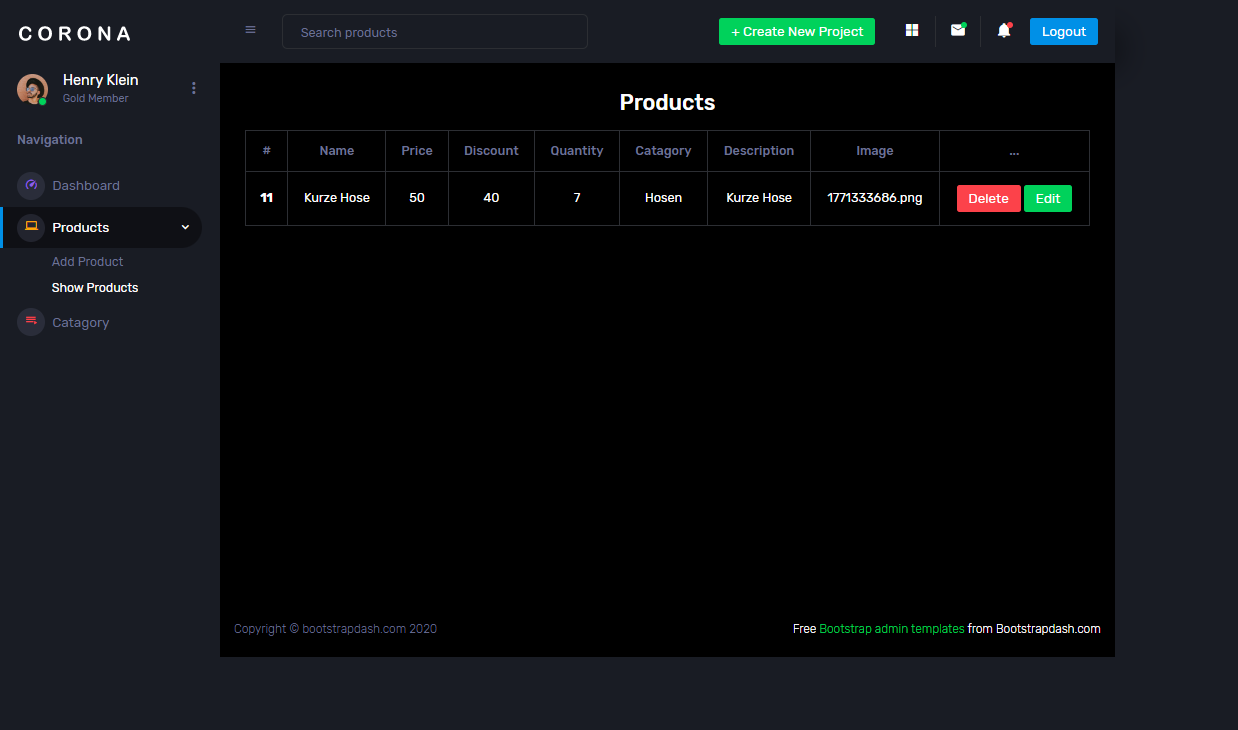
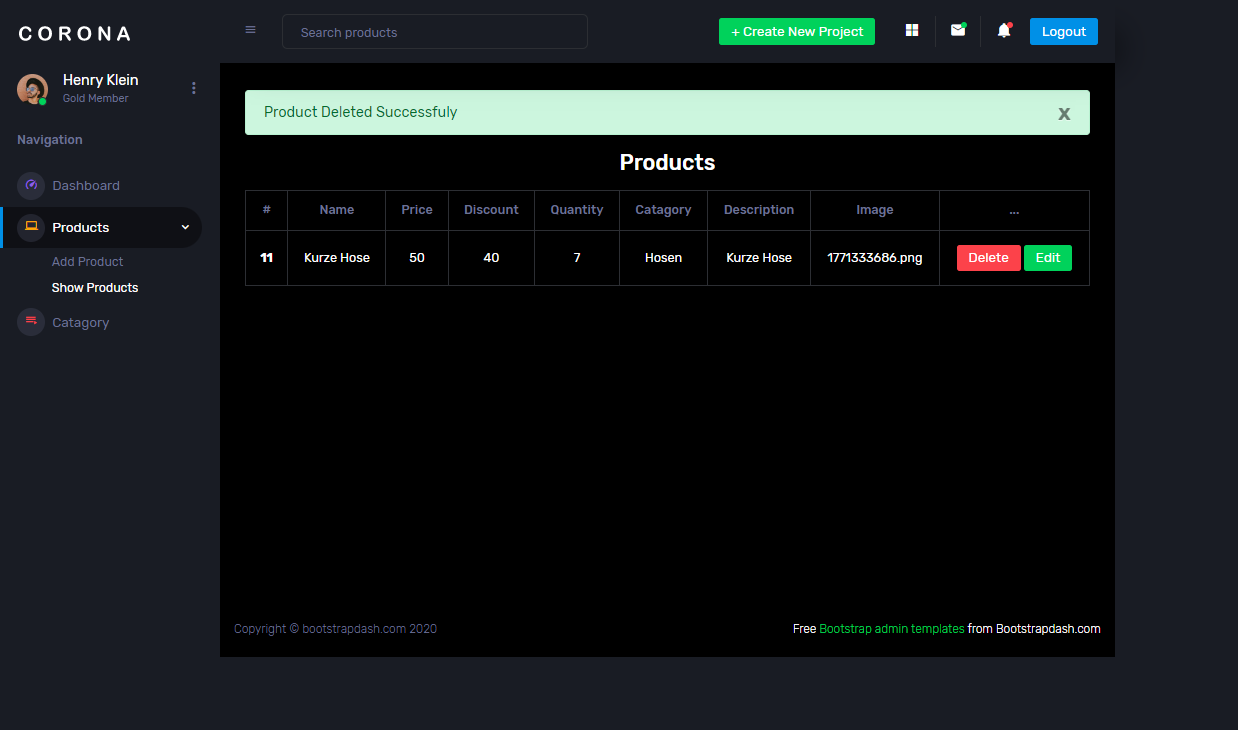
hinzufügen (Delete Product)

diff --git a/app/Http/Controllers/AdminController.php b/app/Http/Controllers/AdminController.php
@@ -30,7 +30,13 @@ class AdminController extends Controller
 
     return redirect()->back()->with('message', 'Catagory Added Successfully');    
     }
+   
+    public function delete_catagory($id){
+        $data = Catagory::find($id);
+        $data->delete();
 
+        return redirect()->back()->with('message', 'Catagory Deleted Successfully');
+    }
 
     /* ---------------- Products ---------------- */
     public function view_product(){
@@ -66,6 +72,13 @@ class AdminController extends Controller
        
 
     return redirect()->back()->with('message', 'Product Added Successfully');    
+    }
+
+    public function delete_product($id){
+        $data=Product::find($id);
+        $data->delete();
+
+        return redirect()->back()->with('message', 'Product Deleted Successfuly');
     }
 
 }

diff --git a/routes/web.php b/routes/web.php
@@ -26,6 +26,8 @@ Route::post('/add_catagory', [AdminController::class,'add_catagory']);
 
 Route::get('/view_catagory', [AdminController::class,'view_catagory']);
 
+Route::get('/delete_catagory/{id}', [AdminController::class,'delete_catagory']);
+
 Route::post('/add_product', [AdminController::class,'add_product']);
 
 //(@aab Kom..) Produkt GUI, um ein neues Produkt zu hinzufügen 
@@ -33,3 +35,5 @@ Route::get('/view_product', [AdminController::class,'view_product']);
 
 //(@aab Kom..) show all Produkts, um zu löchen oder zu berabeiten 
 Route::get('/show_product', [AdminController::class,'show_product']);
+
+Route::get('/delete_product/{id}', [AdminController::class,'delete_product']);

diff --git a/resources/views/main/admin/master_admin.blade.php b/resources/views/main/admin/master_admin.blade.php
@@ -1,17 +1,4 @@
-{{-- comment 
-@extends('main.master')
 
-@section('content')
-
-    <form action="{{url('/add_catagory')}}" class="col-lg-6 offset-lg-3" method="POST">
-        @csrf
-        <div class="row justify-content-center">
-                <input type="text" name="catagory_input" placeholder="Catagory Name">
-                <input type="submit" class="btn btn-primary" name="submit"  value="Add Catagory">
-        </div>
-    </form>   
-
-@endsection--}}
 <!DOCTYPE html>
 <html lang="en">
   <head>
